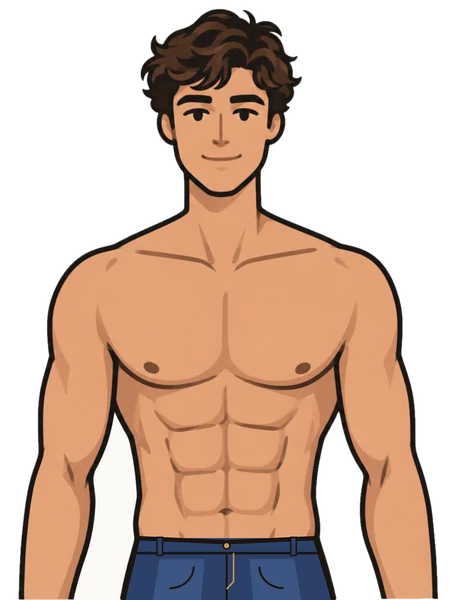
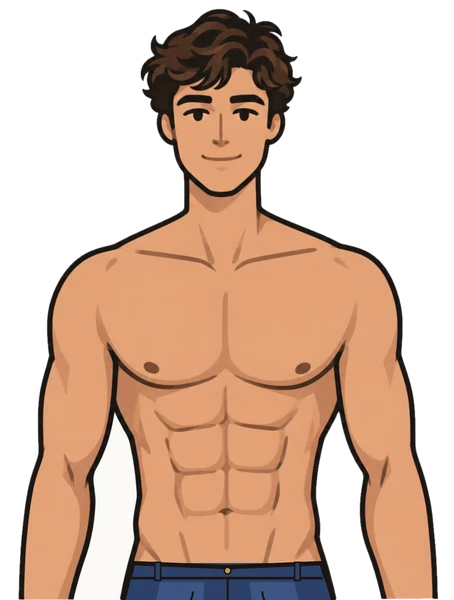
Connect the site to the Google Sheet; jeans sit lower
Claude-Session: https://claude.ai/code/session_01NLaTwrNTvsi2R1wvbMePao

Changed region(s): [[0.2775, 0.87, 0.7093, 1.0]]

diff --git a/js/common.js b/js/common.js
@@ -2,7 +2,7 @@
    API_URL: paste the Google Apps Script web-app link (ending in /exec) between the quotes.
    While it is empty the site runs in DEMO MODE: email sign-ups are NOT collected,
    and wall messages only live on the visitor's own phone. See backend/SETUP.md. */
-const SQC = { API_URL: '' };
+const SQC = { API_URL: 'https://script.google.com/macros/s/AKfycbzJsL0f9hHVi1GYV_vMrzFgDBMkWBeLgugA8oV-zaMIh1sDrTbZ3LN595ZrwVy5eLAt/exec' };
 
 const store = {
   get(k){ try{ return localStorage.getItem(k); }catch(e){ return null; } },
